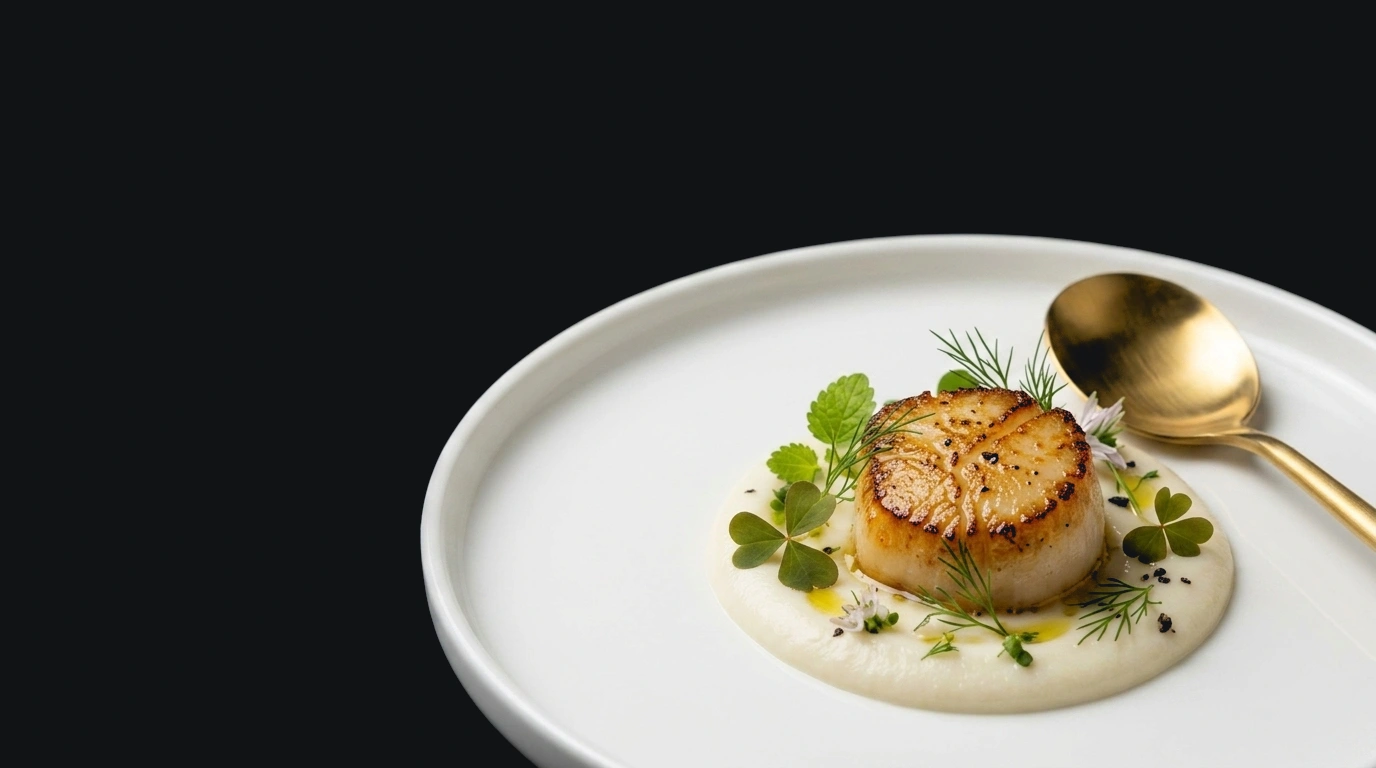
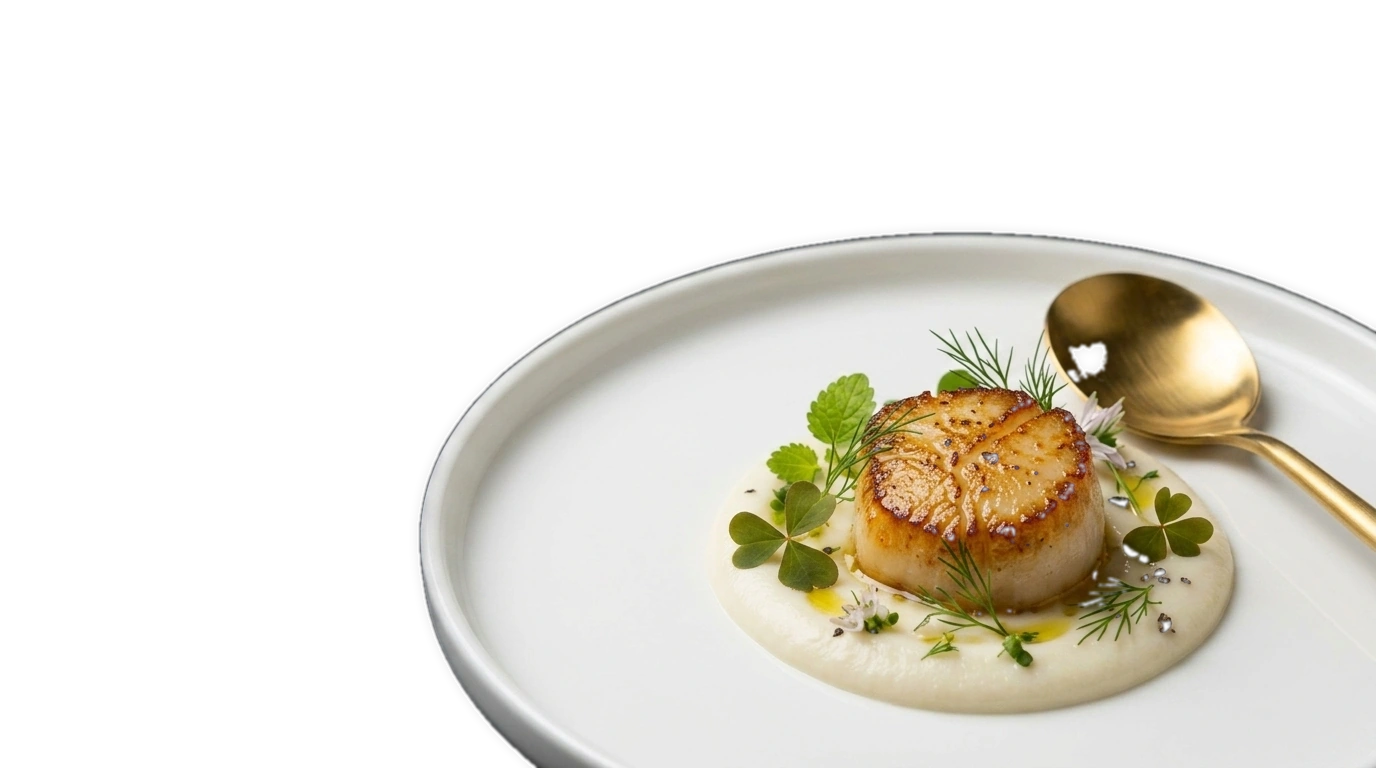
Blend plate background seamlessly into website dark tone with native transparent alpha

diff --git a/src/app/page.tsx b/src/app/page.tsx
@@ -76,16 +76,13 @@ export default function HomePage() {
         {/* Ambient atmospheric backlight */}
         <div className="absolute top-0 left-1/4 w-[700px] h-[350px] bg-bronze-400/5 rounded-full blur-[120px] pointer-events-none" />
 
-        {/* Realistic High-End White Ceramic Plate (Shifted to match reference screenshot position) */}
+        {/* Realistic High-End White Ceramic Plate with Native Transparent Seamless Blend */}
         <div className="absolute right-0 bottom-0 pointer-events-none select-none z-0 overflow-hidden w-full lg:w-[80%] xl:w-[75%] h-full max-h-[640px] flex items-end justify-end">
           <img
             src="/hero-plate.webp"
             alt="Artisan Seared Scallop with Puree and Microgreens"
-            className="w-auto h-[88%] max-h-[540px] object-contain object-right-bottom drop-shadow-[0_20px_50px_rgba(0,0,0,0.9)]"
+            className="w-auto h-[88%] max-h-[540px] object-contain object-right-bottom drop-shadow-[0_25px_60px_rgba(0,0,0,0.9)]"
           />
-          {/* Subtle natural edge fade matching website #121316 */}
-          <div className="absolute inset-0 bg-gradient-to-t from-[#121316]/50 via-transparent to-transparent opacity-50 pointer-events-none" />
-          <div className="absolute inset-0 bg-gradient-to-r from-[#121316] via-transparent to-transparent opacity-25 pointer-events-none" />
         </div>
 
         {/* Dynamic Falling Microgreens Animation */}
